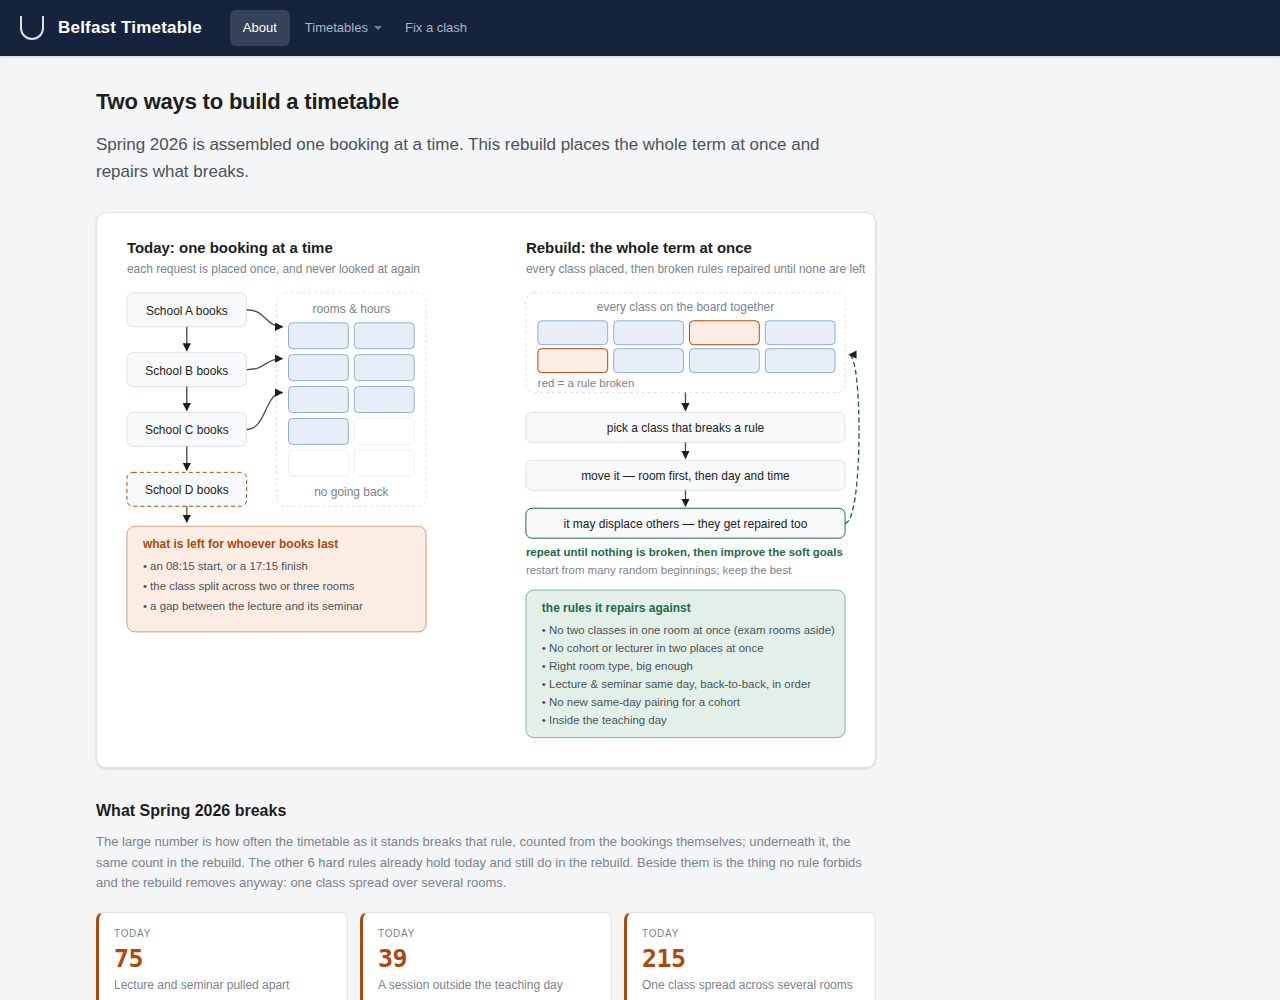
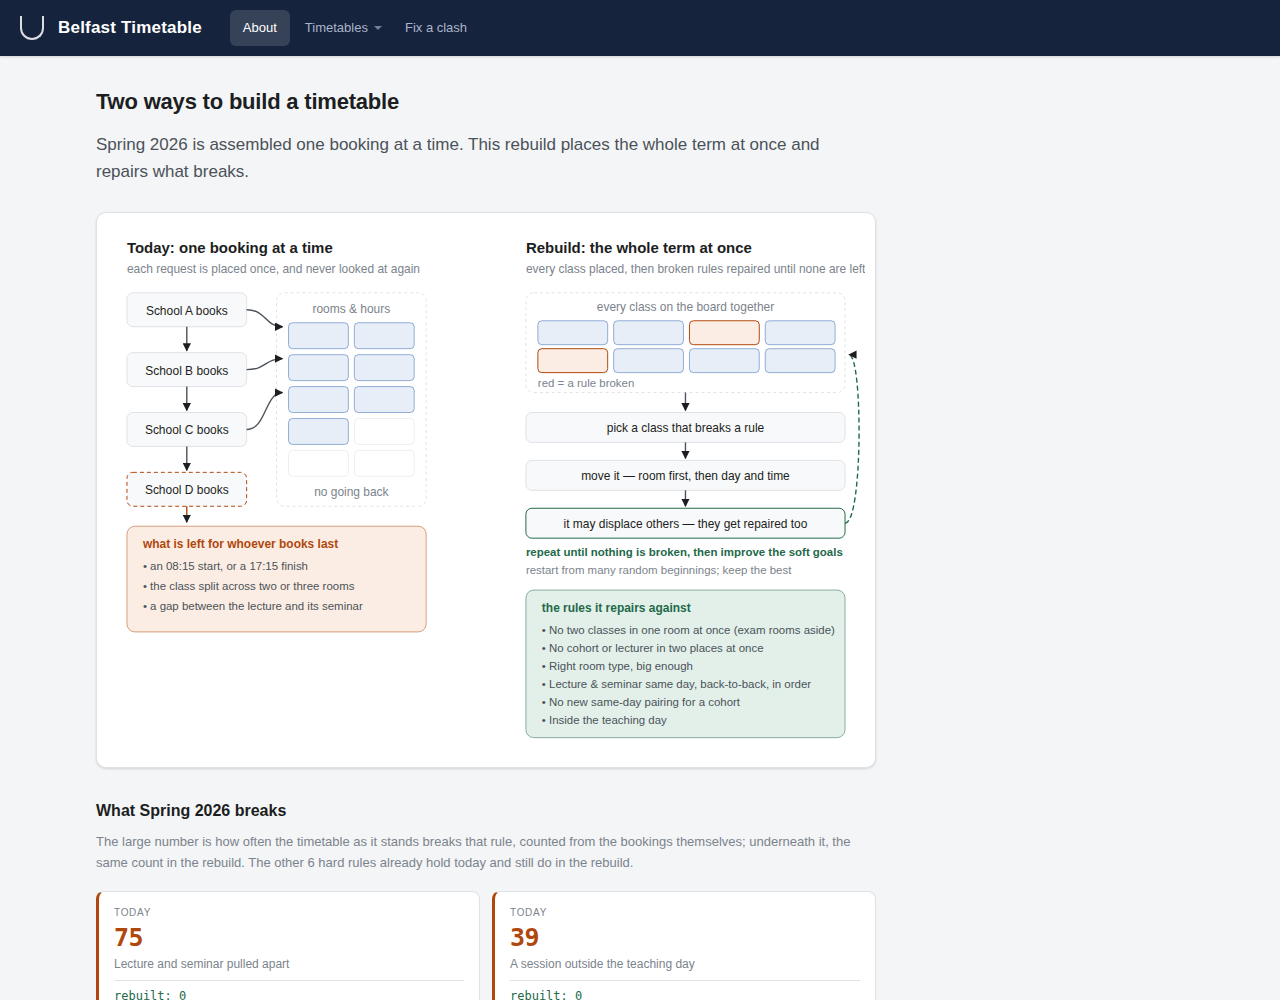
Fix a clash lists the current timetables only; drop the split-room claim
The picker on Fix a clash offers Autumn and Spring as they stand, which
is what that page works against.

The "215 split classes -> 0" tile is gone, because the arithmetic does
not support it. Of the 186 bookings that hold several rooms at once, 27
are exams, 22 are pinned institutional bookings and 111 are studio and
specialist teaching where the several rooms are the teaching. That
leaves 38 ordinary teaching bookings, and only one of them is rebuilt
into a room as big as the rooms it uses today: MEC114's tutorial spans
eight rooms and 295 seats and lands in a room for 68, because a split
class takes its size from its largest room rather than their total.
Whether that is right turns on whether a title like "MEC114/S2/TUT 1"
is one class needing one big room or eight parallel groups needing
eight, which the data does not say. The page now says so in the
caveats instead of claiming a fix.

Claude-Session: https://claude.ai/code/session_01MXfb615SCLwARwyeWvxCJ7

Changed region(s): [[0.0625, 0.868, 0.6562, 1.0], [0.5, 0.837, 0.6875, 0.868]]

diff --git a/docs/assets/method.js b/docs/assets/method.js
@@ -442,9 +442,7 @@
     var ruleTiles = brokenNow.map(function (k) {
       return tile(fmtN(now.counts[k]), TILE_LABELS[k],
                   'rebuilt: ' + fmtN(fixed.counts[k] || 0), 'warn');
-    }).join('') +
-      tile(fmtN(TODAY.splitBookings), 'One class spread across several rooms',
-           'rebuilt: 0', 'warn');
+    }).join('');
 
     var riskRows = risky.map(function (x) {
       var name = (model.modTitles || {})[x.code] || '';
@@ -466,19 +464,18 @@
       '<p class="small muted">The large number is how often the timetable as it stands breaks ',
       'that rule, counted from the bookings themselves; underneath it, the same count in the ',
       'rebuild. The other ' + (RULE_ORDER.length - brokenNow.length) + ' hard rules already hold ',
-      'today and still do in the rebuild. Beside them is the thing no rule forbids and the ',
-      'rebuild removes anyway: one class spread over several rooms.</p>',
+      'today and still do in the rebuild.</p>',
       '<div class="stats">',
       ruleTiles,
       '</div>',
-      '<p class="small muted">The worst split booking uses ' + TODAY.maxRooms + ' rooms, and ',
-      'splitting is what creates ' + fmtN(TODAY.splitExtra) + ' of the term\u2019s ' +
-      fmtN(TODAY.roomBookings) + ' room-bookings; in the rebuild a class holds one room, so they ',
-      'return to the pool. The room rule itself already holds today: ' + TODAY.sharedRoomPairs +
+      '<p class="small muted">The room rule itself already holds today: ' + TODAY.sharedRoomPairs +
       ' pairs of bookings do hold one room at the same time, and every one of them is shared ',
       'teaching \u2014 architecture and art studios, the hospitality kitchen, a joint sports ',
-      'physiology lab \u2014 which the rebuild keeps. All ' + b2b + ' of ' + groups + ' ',
-      'lecture+seminar pairs run back-to-back.</p>',
+      'physiology lab \u2014 which the rebuild keeps. What the term does have is splitting: ' +
+      fmtN(TODAY.splitBookings) + ' of ' + fmtN(TODAY.bookings) + ' bookings use more than one ',
+      'room, one of them ' + TODAY.maxRooms + ', which is ' + fmtN(TODAY.splitExtra) + ' of the ',
+      'term\u2019s ' + fmtN(TODAY.roomBookings) + ' room-bookings. All ' + b2b + ' of ' + groups +
+      ' lecture+seminar pairs run back-to-back.</p>',
 
       // ------------------------------------------------ why it always clashes
       '<h2>The current method will always clash</h2>',
@@ -541,6 +538,14 @@
       '<div class="note warn"><p style="margin:0"><strong>Most class sizes are room capacities, ',
       'not headcounts.</strong> Where timetabling has confirmed a real number it is used exactly; ',
       'everywhere else the room a class sits in stands in for its cohort, give or take 12%.</p></div>',
+      '<div class="note warn"><p style="margin:0"><strong>A split class is modelled as one ',
+      'class.</strong> Where a booking holds several rooms at once, its size is taken from the ',
+      'largest of them, not their total, and the rebuild gives it a single room. That is right ',
+      'where the split was for want of one big enough room, and wrong where one title covers ',
+      'parallel groups: MEC114\u2019s tutorial occupies eight rooms today and is modelled as 50 ',
+      'people. Set the studios, exams and institutional bookings aside and 38 ordinary teaching ',
+      'bookings are split; only one of them lands in a room as big as the rooms it uses now. ',
+      'Until each is read as either one class or several, treat their rooms as unsettled.</p></div>',
       '<div class="note"><p style="margin:0"><strong>Exams and evenings are different.</strong> ',
       'A multi-room exam keeps its several rooms. Anything taught after 17:15 stays there \u2014 ',
       'nineteen modules are evening-only, nearly all part-time. One-off bookings are excluded.</p></div>',

diff --git a/docs/explore.html b/docs/explore.html
@@ -20,8 +20,6 @@
       <div class="bar-drop" role="menu">
         <a class="drop-item" role="menuitem" href="index.html?t=autumn">Autumn 2026<span class="sub">as it stands</span></a>
         <a class="drop-item" role="menuitem" href="index.html?t=springNow">Spring 2026<span class="sub">as it stands</span></a>
-        <a class="drop-item" role="menuitem" href="index.html?t=springNew">Spring 2026<span class="sub">rebuilt</span></a>
-        <span class="drop-item soon">Autumn 2026<span class="sub">rebuilt &mdash; in progress</span></span>
       </div>
     </span>
     <a href="explore.html" aria-current="page">Fix a clash</a>
